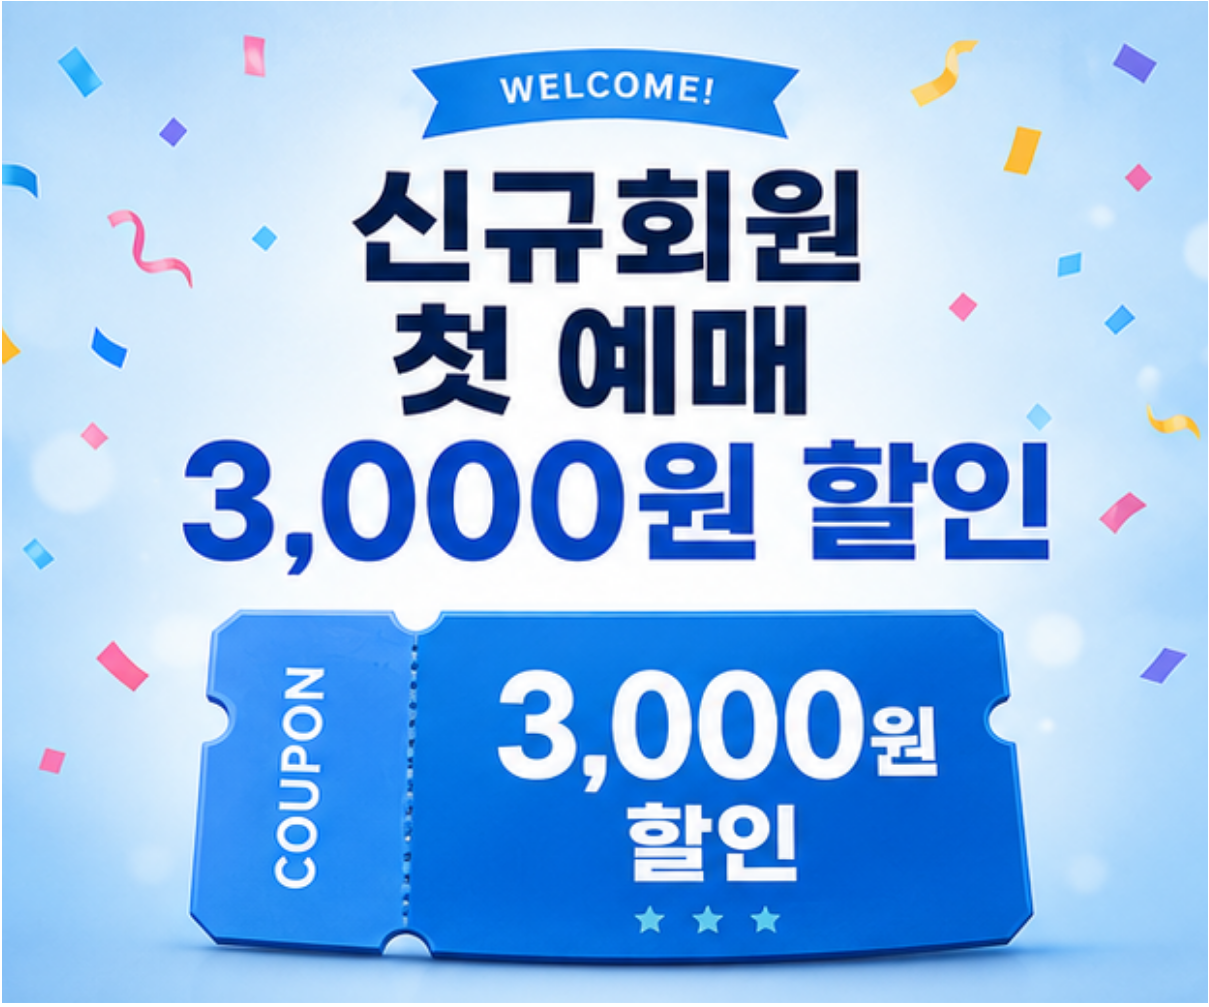
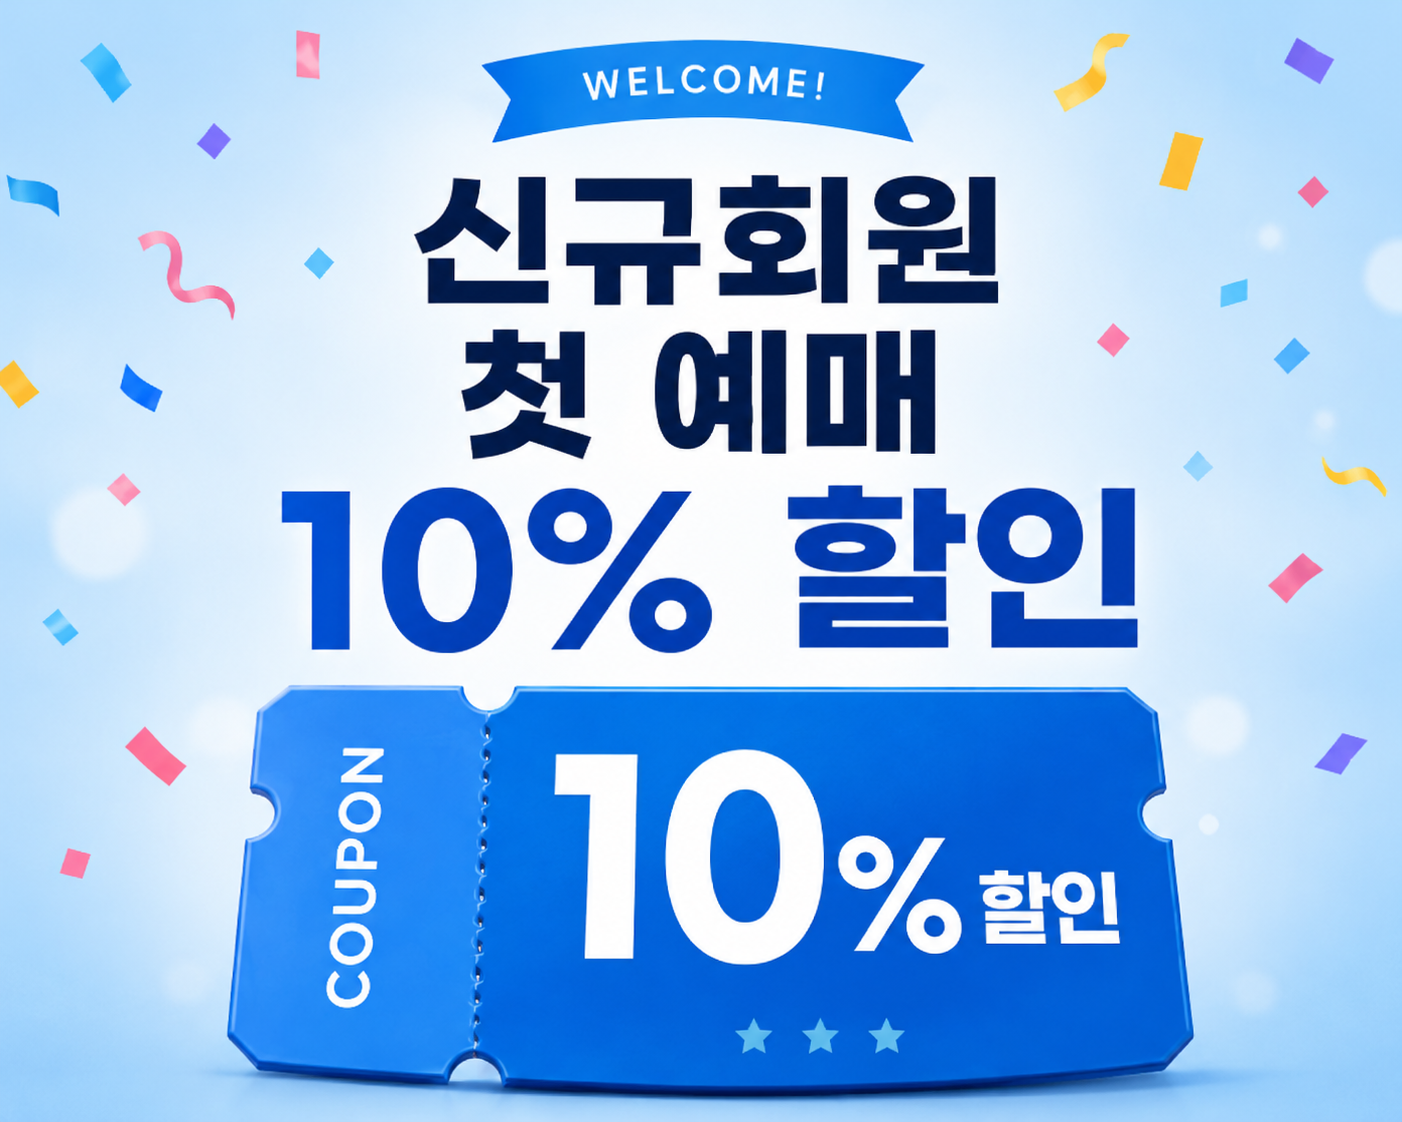
이벤트 이미지/내용 변경,test창 삭제 회원탈퇴시 비밀번호 확인창 추가 회원정보수정 버튼 css수정

diff --git a/ticket_prj/src/main/webapp/mypage_user/myPage.css b/ticket_prj/src/main/webapp/mypage_user/myPage.css
@@ -616,19 +616,13 @@
 }
 
 .cancel-btn{
-    background:#FF0000;
+   background:#18181f;
     color:#fff;
-    border:1px solid #111;
-
-    padding:8px 18px;
-    border-radius:4px;
-
-    cursor:pointer;
-    transition:.2s;
+    border:0;
 }
 
 .cancel-btn:hover{
-    background:#000000;
+    background:#FF0000;
     border-color:#333;
 }
 
@@ -636,5 +630,9 @@
     background:#18181f;
     color:#fff;
     border:0;
+}
+.save-btn:hover{
+    background:#FF0000;
+    border-color:#333;
 }
 